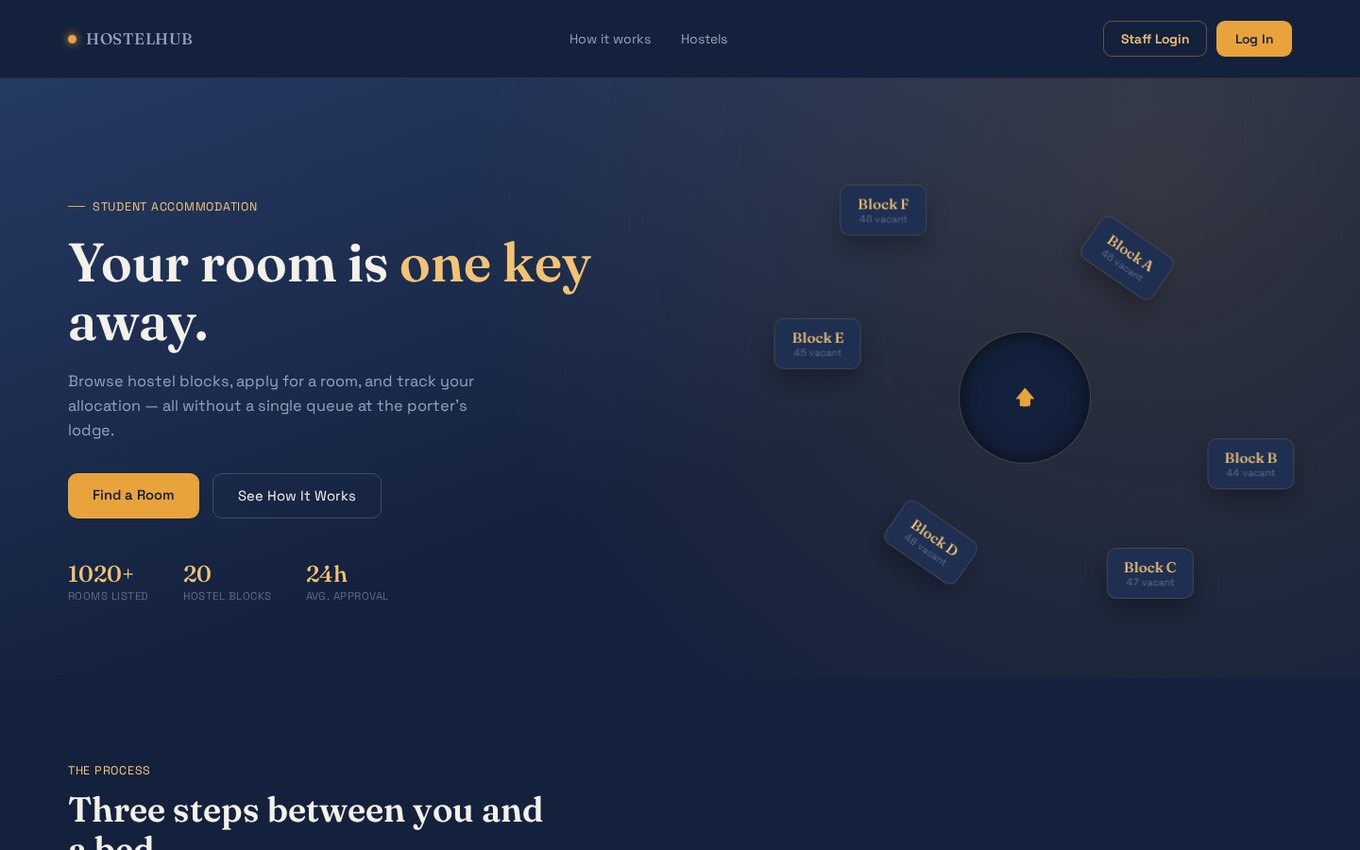
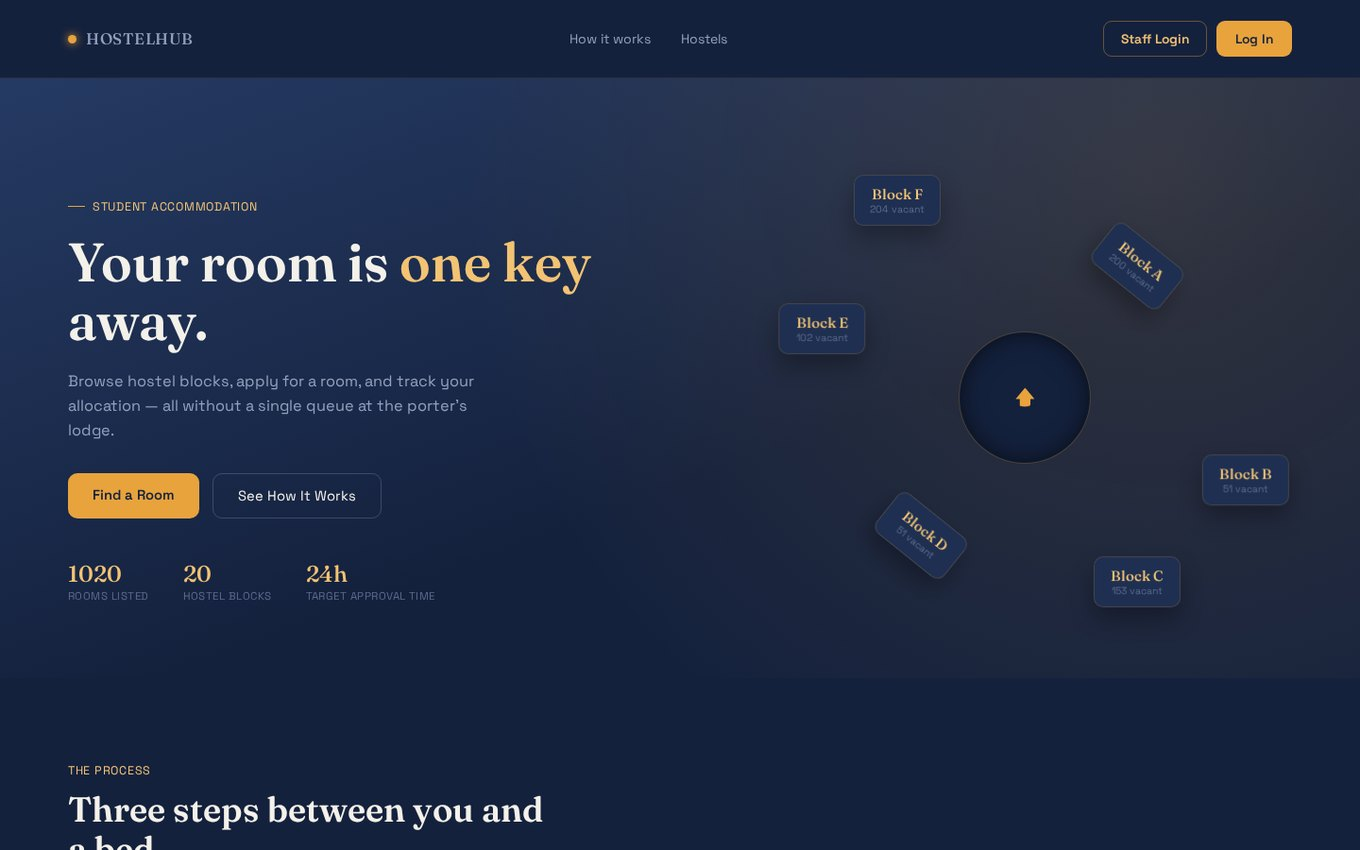
Fix template comments rendering as visible text; wire staff-login stats; clear remaining dead controls
Reported from a screenshot of the staff login page, where a Django comment was
printing as body copy.

- Django's {# ... #} comment is single-line only; the multi-line form is NOT
  stripped and renders literally. Two comments I had added were doing exactly
  that, one on /admin-login/ and one on /. Both collapsed to one line, plus a
  static scan of every template for multi-line/unclosed comments, and a render
  check for the marker text on all seven pages.
- admin_login.html hardcoded '1020+ Rooms / 20 Blocks / 24h Avg. Approval'.
  Now room_count / hostel_count / total_vacant under an honest 'Beds Free Now'
  label, fed by the context the view already computed.
- admin_login_page() ran sum() over every Room row (1,020 objects) to render two
  numbers on an unauthenticated page; replaced with one aggregate - 2 queries.
- 'Forgot password?' linked to # and 'Keep me signed in' was read by nothing:
  no password_reset URL and no set_expiry call exist. Hidden, not left as dead
  furniture, with the reason commented in place.
- Complaints was still dead in booking/details/dashboard (removed from only
  landing/listing before), and dashboard's 'Edit Profile' was a no-op anchor.
  All removed; no actionable href='#' link remains in the portal.
- landing orbit picked blocks alphabetically, so '2-Bedroom Apartment 1' wrapped
  to four lines inside a 92px chip sized for 'Block A'. Now selects the six
  shortest-named blocks; verified via scrollWidth that no label overflows, and
[…]

diff --git a/myproject/portal/templates/hostel/admin_login.html b/myproject/portal/templates/hostel/admin_login.html
@@ -385,16 +385,16 @@
 
     <div class="status-row">
       <div>
-        <span class="num">1020+</span>
+        <span class="num">{{ room_count }}</span>
         <span class="label">Rooms Listed</span>
       </div>
       <div>
-        <span class="num">20</span>
+        <span class="num">{{ hostel_count }}</span>
         <span class="label">Hostel Blocks</span>
       </div>
       <div>
-        <span class="num">24h</span>
-        <span class="label">Avg. Approval</span>
+        <span class="num">{{ total_vacant }}</span>
+        <span class="label">Beds Free Now</span>
       </div>
     </div>
   </div>
@@ -418,8 +418,7 @@
       <form method="post" action="{% url 'admin_login_submit' %}" onsubmit="return handleSubmit(event, 'signin')" novalidate>
         {% csrf_token %}
         {% if login_error %}
-          {# the view's specific message was never rendered here, so every
-             rejection on this page showed identical generic text #}
+          {# renders the view's message; generic text only as fallback #}
           <p style="color: var(--error); font-size: 0.82rem; margin-bottom: 14px;">{% if messages %}{% for message in messages %}{{ message }}{% endfor %}{% else %}Incorrect staff ID/email or password.{% endif %}</p>
         {% endif %}
         <div class="field" id="admin-id-field">
@@ -434,9 +433,9 @@
           <small class="err">Password must be at least 6 characters.</small>
         </div>
 
-        <div class="remember-row">
+        {# no password-reset or session-extension support exists yet; controls hidden, not left dead #}
+        <div class="remember-row" style="display:none;">
           <label><input type="checkbox" id="admin-remember"> Keep me signed in</label>
-          <a href="#">Forgot password?</a>
         </div>
 
         <button type="submit" class="submit-btn">Sign In</button>

diff --git a/myproject/portal/templates/hostel/landing.html b/myproject/portal/templates/hostel/landing.html
@@ -208,7 +208,8 @@
   }
   @keyframes counter-spin { to { transform: rotate(-360deg); } }
 
-  .tag .block { font-family: 'Fraunces', serif; font-size: 0.95rem; color: var(--gold-soft); }
+  .tag .block { font-family: 'Fraunces', serif; font-size: 0.95rem; color: var(--gold-soft);
+    white-space: nowrap; overflow: hidden; text-overflow: ellipsis; }
   .tag .stat { font-size: 0.66rem; color: var(--slate-dim); }
 
   .tag-a { top: 0; left: 50%; transform: translateX(-50%); }
@@ -406,9 +407,7 @@
     <div class="stat-row">
       <div><span class="num">{{ room_count }}</span><span class="label">Rooms Listed</span></div>
       <div><span class="num">{{ hostel_count }}</span><span class="label">Hostel Blocks</span></div>
-      {# 24h is a service target, not a measured figure: Booking now stores no
-        approver or decision latency, so there is nothing to average yet.
-        Replace with a real computed value once decisions are timed. #}
+      {# 24h is a stated target, not a measurement: nothing records decision latency yet. #}
       <div><span class="num">24h</span><span class="label">Target Approval Time</span></div>
     </div>
   </div>

diff --git a/myproject/portal/templates/hostel/dashboard.html b/myproject/portal/templates/hostel/dashboard.html
@@ -217,7 +217,6 @@
   <div class="nav-links">
     <a href="{% url 'dashboard' %}" class="active">Dashboard</a>
     <a href="{% url 'listing' %}">Hostels</a>
-    <a href="#">Complaints</a>
   </div>
   <div class="nav-right">
     <span class="avatar">{{ initials }}</span>
@@ -316,7 +315,7 @@
         <div class="info-row"><span>Phone</span><span>{{ student.phone|default:"—" }}</span></div>
       </div>
 
-      <a href="#" class="edit-btn">Edit Profile</a>
+      {# Edit Profile needs a profile-edit view before it can link anywhere #}
     </div>
 
     <div class="card">

diff --git a/myproject/portal/templates/hostel/details.html b/myproject/portal/templates/hostel/details.html
@@ -231,7 +231,6 @@
   <div class="nav-links">
     <a href="{% url 'landing' %}">Home</a>
     <a href="{% url 'listing' %}">Hostels</a>
-    <a href="#">Complaints</a>
   </div>
   {% if user.is_authenticated %}
     <div style="display:flex; align-items:center; gap:14px;">

diff --git a/myproject/portal/templates/hostel/booking.html b/myproject/portal/templates/hostel/booking.html
@@ -174,7 +174,6 @@
   <div class="nav-links">
     <a href="{% url 'dashboard' %}">Dashboard</a>
     <a href="{% url 'listing' %}">Hostels</a>
-    <a href="#">Complaints</a>
   </div>
   <span class="avatar">{{ request.user.username|slice:":2"|upper }}</span>
 </nav>

diff --git a/myproject/portal/views.py b/myproject/portal/views.py
@@ -42,10 +42,14 @@ def landing(request):
             taken=Coalesce(Sum("occupied_beds"), Value(0)),
         )
     }
+    # The orbit is a fixed ring of six 92px chips sized for a name like "Block A",
+    # so it shows the six shortest-named blocks ("2-Bedroom Apartment 1" overflows
+    # the chip even when abbreviated). Long names stay visible on the listing page.
     landing_blocks = [
         {"name": name, "vacant": (row["beds"] or 0) - (row["taken"] or 0)}
-        for name, row in sorted(per_block.items())
+        for name, row in sorted(per_block.items(), key=lambda kv: (len(kv[0]), kv[0]))[:6]
     ]
+    landing_blocks.sort(key=lambda b: b["name"])
 
     return render(request, "hostel/landing.html", {
         "room_count": room_stats["rooms"] or 0,
@@ -164,11 +168,21 @@ def logout_view(request):
 def admin_login_page(request):
     """Renders the separate admin login page. Actual auth happens in
     admin_login_submit below, which its form POSTs to."""
-    rooms = Room.objects.select_related("hostel").all()
-    total_capacity = sum(r.capacity for r in rooms)
-    total_occupied = sum(r.occupied_beds for r in rooms)
-    total_vacant = total_capacity - total_occupied
-    context = {"total_capacity": total_capacity, "total_vacant": total_vacant}
+    # aggregate rather than loading every Room row into Python just to add up
+    # two numbers on an unauthenticated page
+    agg = Room.objects.aggregate(
+        room_total=Count("id"),
+        capacity=Coalesce(Sum(Cast("hostel__capacity_per_room", IntegerField())), Value(0)),
+        occupied=Coalesce(Sum("occupied_beds"), Value(0)),
+    )
+    total_capacity = agg["capacity"] or 0
+    total_occupied = agg["occupied"] or 0
+    context = {
+        "total_capacity": total_capacity,
+        "total_vacant": total_capacity - total_occupied,
+        "room_count": agg["room_total"] or 0,
+        "hostel_count": Hostel.objects.count(),
+    }
     return render(request, "hostel/admin_login.html", context)
 
 @never_cache

diff --git a/README.md b/README.md
@@ -206,7 +206,7 @@ Static files are served by WhiteNoise and `python manage.py check --deploy` is c
 Stated plainly, because a portfolio project is more credible for them than without them:
 
 - **Booking acceptance is not atomic.** `booking_decision` does a read-modify-write on `occupied_beds` without `transaction.atomic()` + `select_for_update()`, so two wardens approving simultaneously could overbook the last bed. The `is_full` guard makes this a rare race, not a common one.
-- **No password reset or profile editing.** A forgotten password has no self-service path; the only recovery is editing `auth_user` in Django admin.
+- **No password reset or profile editing.** A forgotten password has no self-service path; the only recovery is editing `auth_user` in Django admin. The login page no longer offers a `Forgot password?` link for it — build the flow before restoring the control.
 - **The listing page sends every room and hides most of it.** ~1,020 cards are rendered server-side (about 1 MB of HTML) and trimmed to a 5-per-block preview in client JS, because `listing()` has no limit or pagination. Correct on screen, wasteful on the wire.
 - **Photos are `picsum.photos` placeholders**, resolved at runtime by a third party, and the favicon is a `.jpg` declared as `image/png`. Swap in real block photography before showing this to anyone who might take the images literally.
 - **A room holds beds, not people.** `occupied_beds` is an integer; nothing links an approved booking to a specific bed, and there is no move-out or cancellation path that releases one.
@@ -225,6 +225,10 @@ Worth listing because each was a live bug, not a code-smell, and the fixes are i
 - `request_access` never checked email uniqueness, while `admin_login_submit` resolves identifiers via `filter(email=...).first()` — two staff requests sharing an email could authenticate against the first account.
 - `admin_login.html` rendered its own generic text instead of the view's messages, so every rejection on the staff page said the same thing.
 - `landing()` ran no query, so the hero counts and per-block "vacant" chips were **hardcoded HTML** that would not change as rooms filled. They are computed now; the "24h" figure is labelled as a target, because nothing measures actual decision latency yet.
+- The staff login page had the same hardcoded stats plus a `Forgot password?` link to `#` and a "Keep me signed in" checkbox with no backend — both removed rather than left as dead furniture, since no password-reset flow exists yet.
+- `admin_login_page()` loaded all 1,020 `Room` rows into Python to compute two numbers for an unauthenticated page; now one aggregate (2 queries).
+- A Django gotcha worth remembering: **`{# comment #}` only works on one line.** A multi-line `{#` … `#}` is *not* stripped and renders as visible text on the page. Two comments I added did exactly that.
+- `Complaints` was dead in **three** more templates (`booking`, `details`, `dashboard`) after being removed from two — plus a no-op "Edit Profile" button. All gone; no `href="#"` link that looks actionable remains in the portal.
 - Two nav bugs: `listing.html` had two independent `{% if user.is_authenticated %}` blocks that drew "Log In" twice for guests, and `landing.html` showed it to signed-in students. The dead `Complaints` link (no model, view or URL behind it) is gone.
 
 ---
